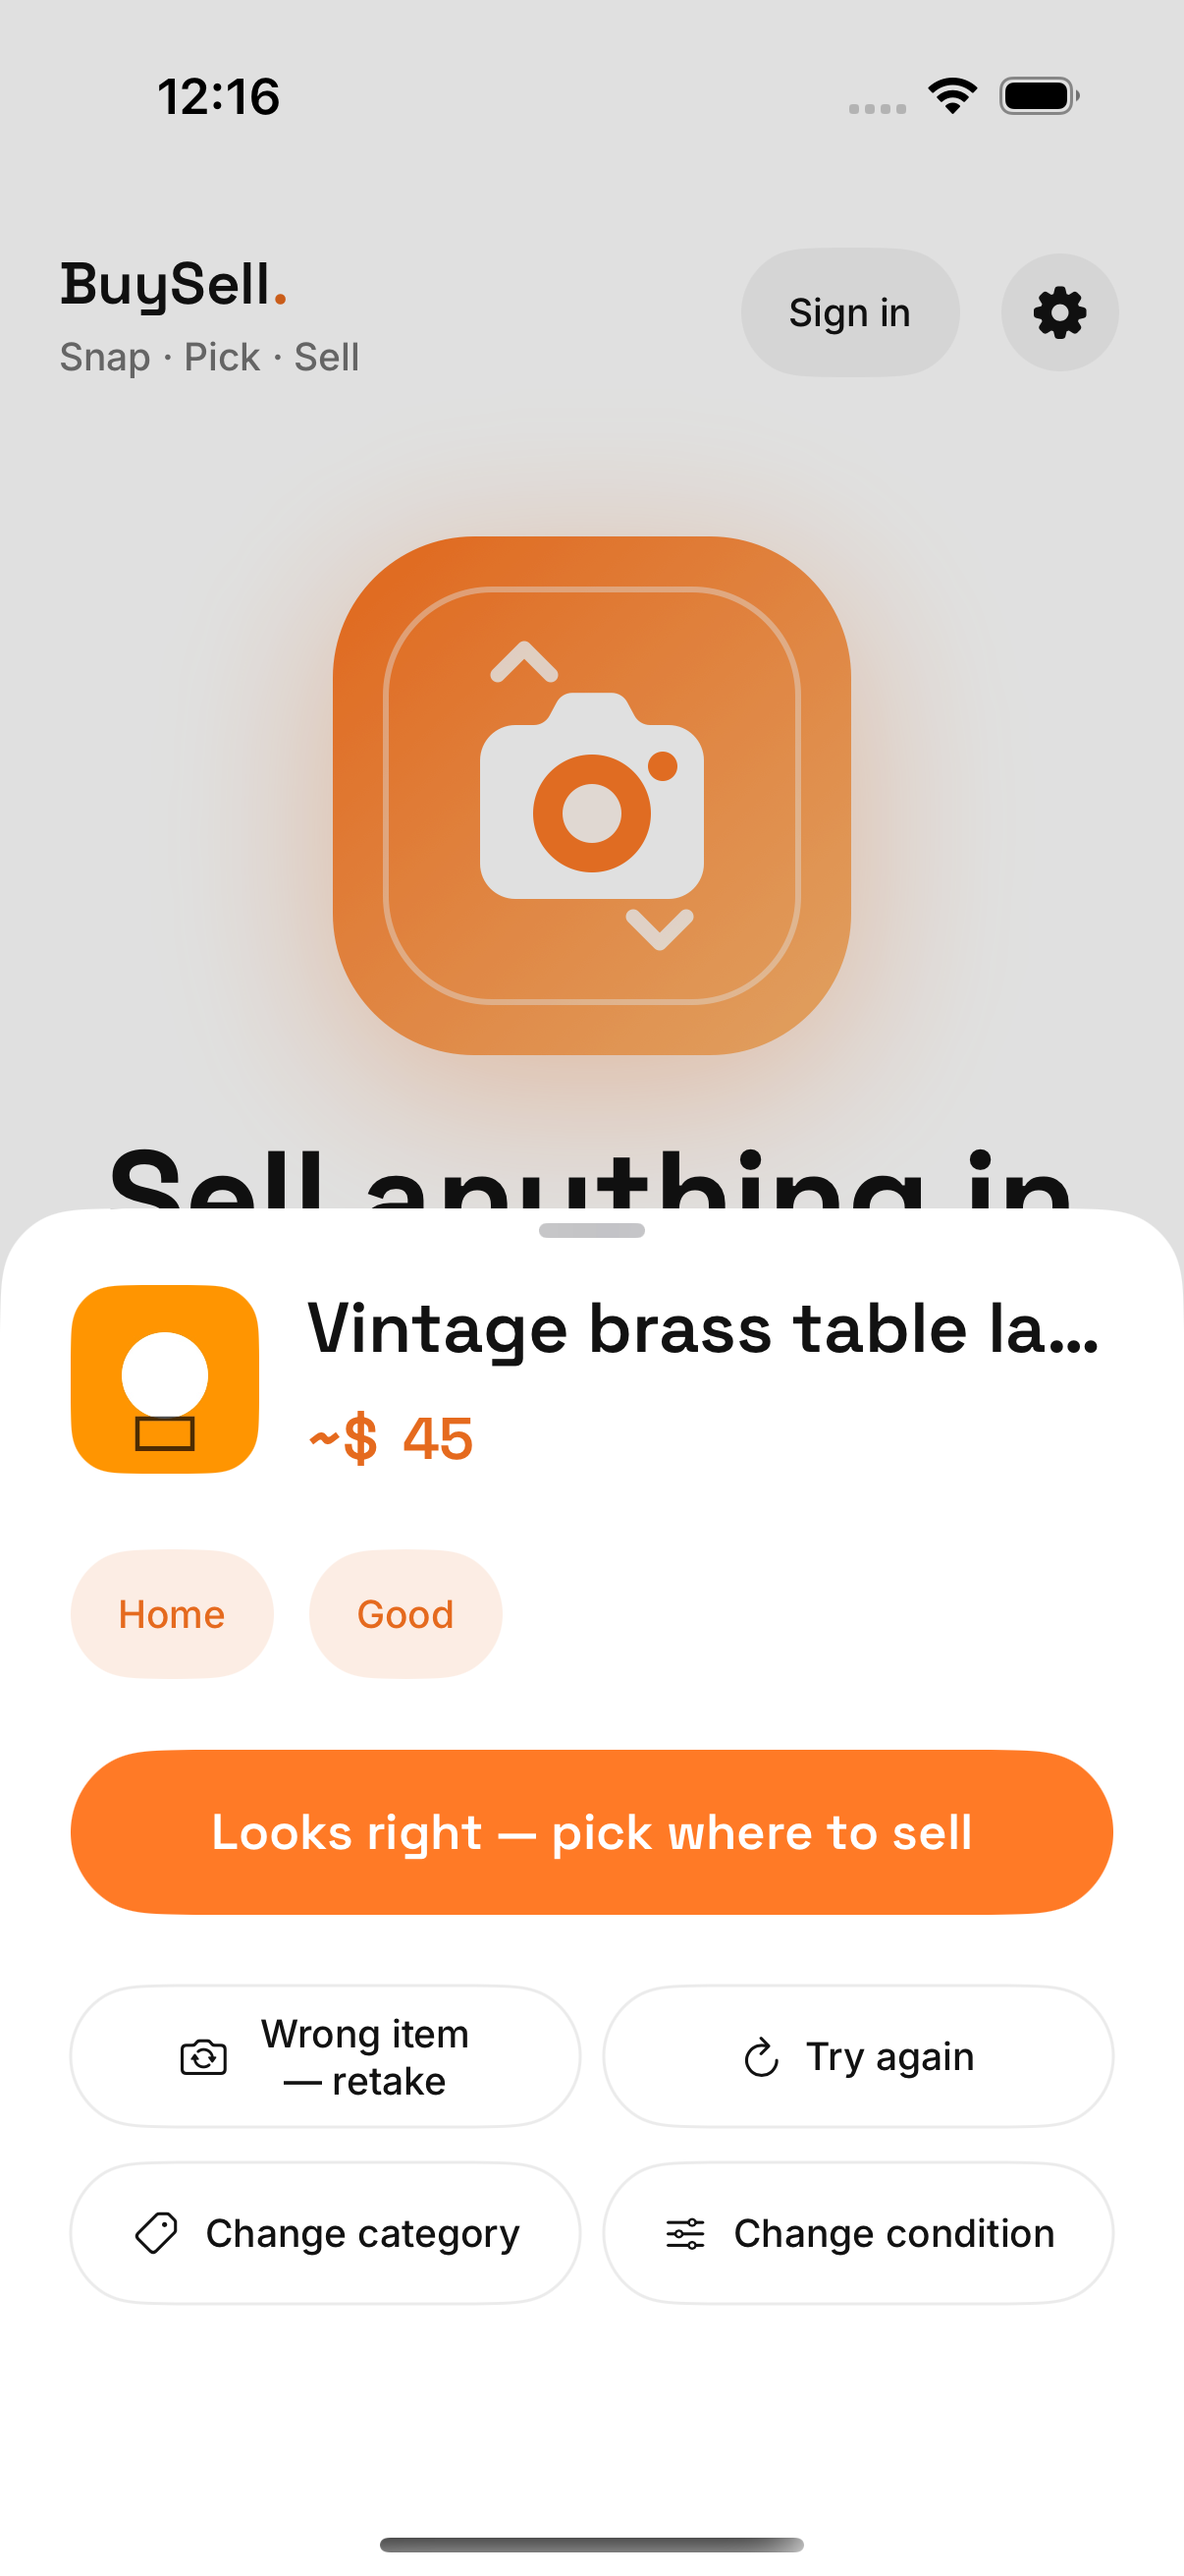
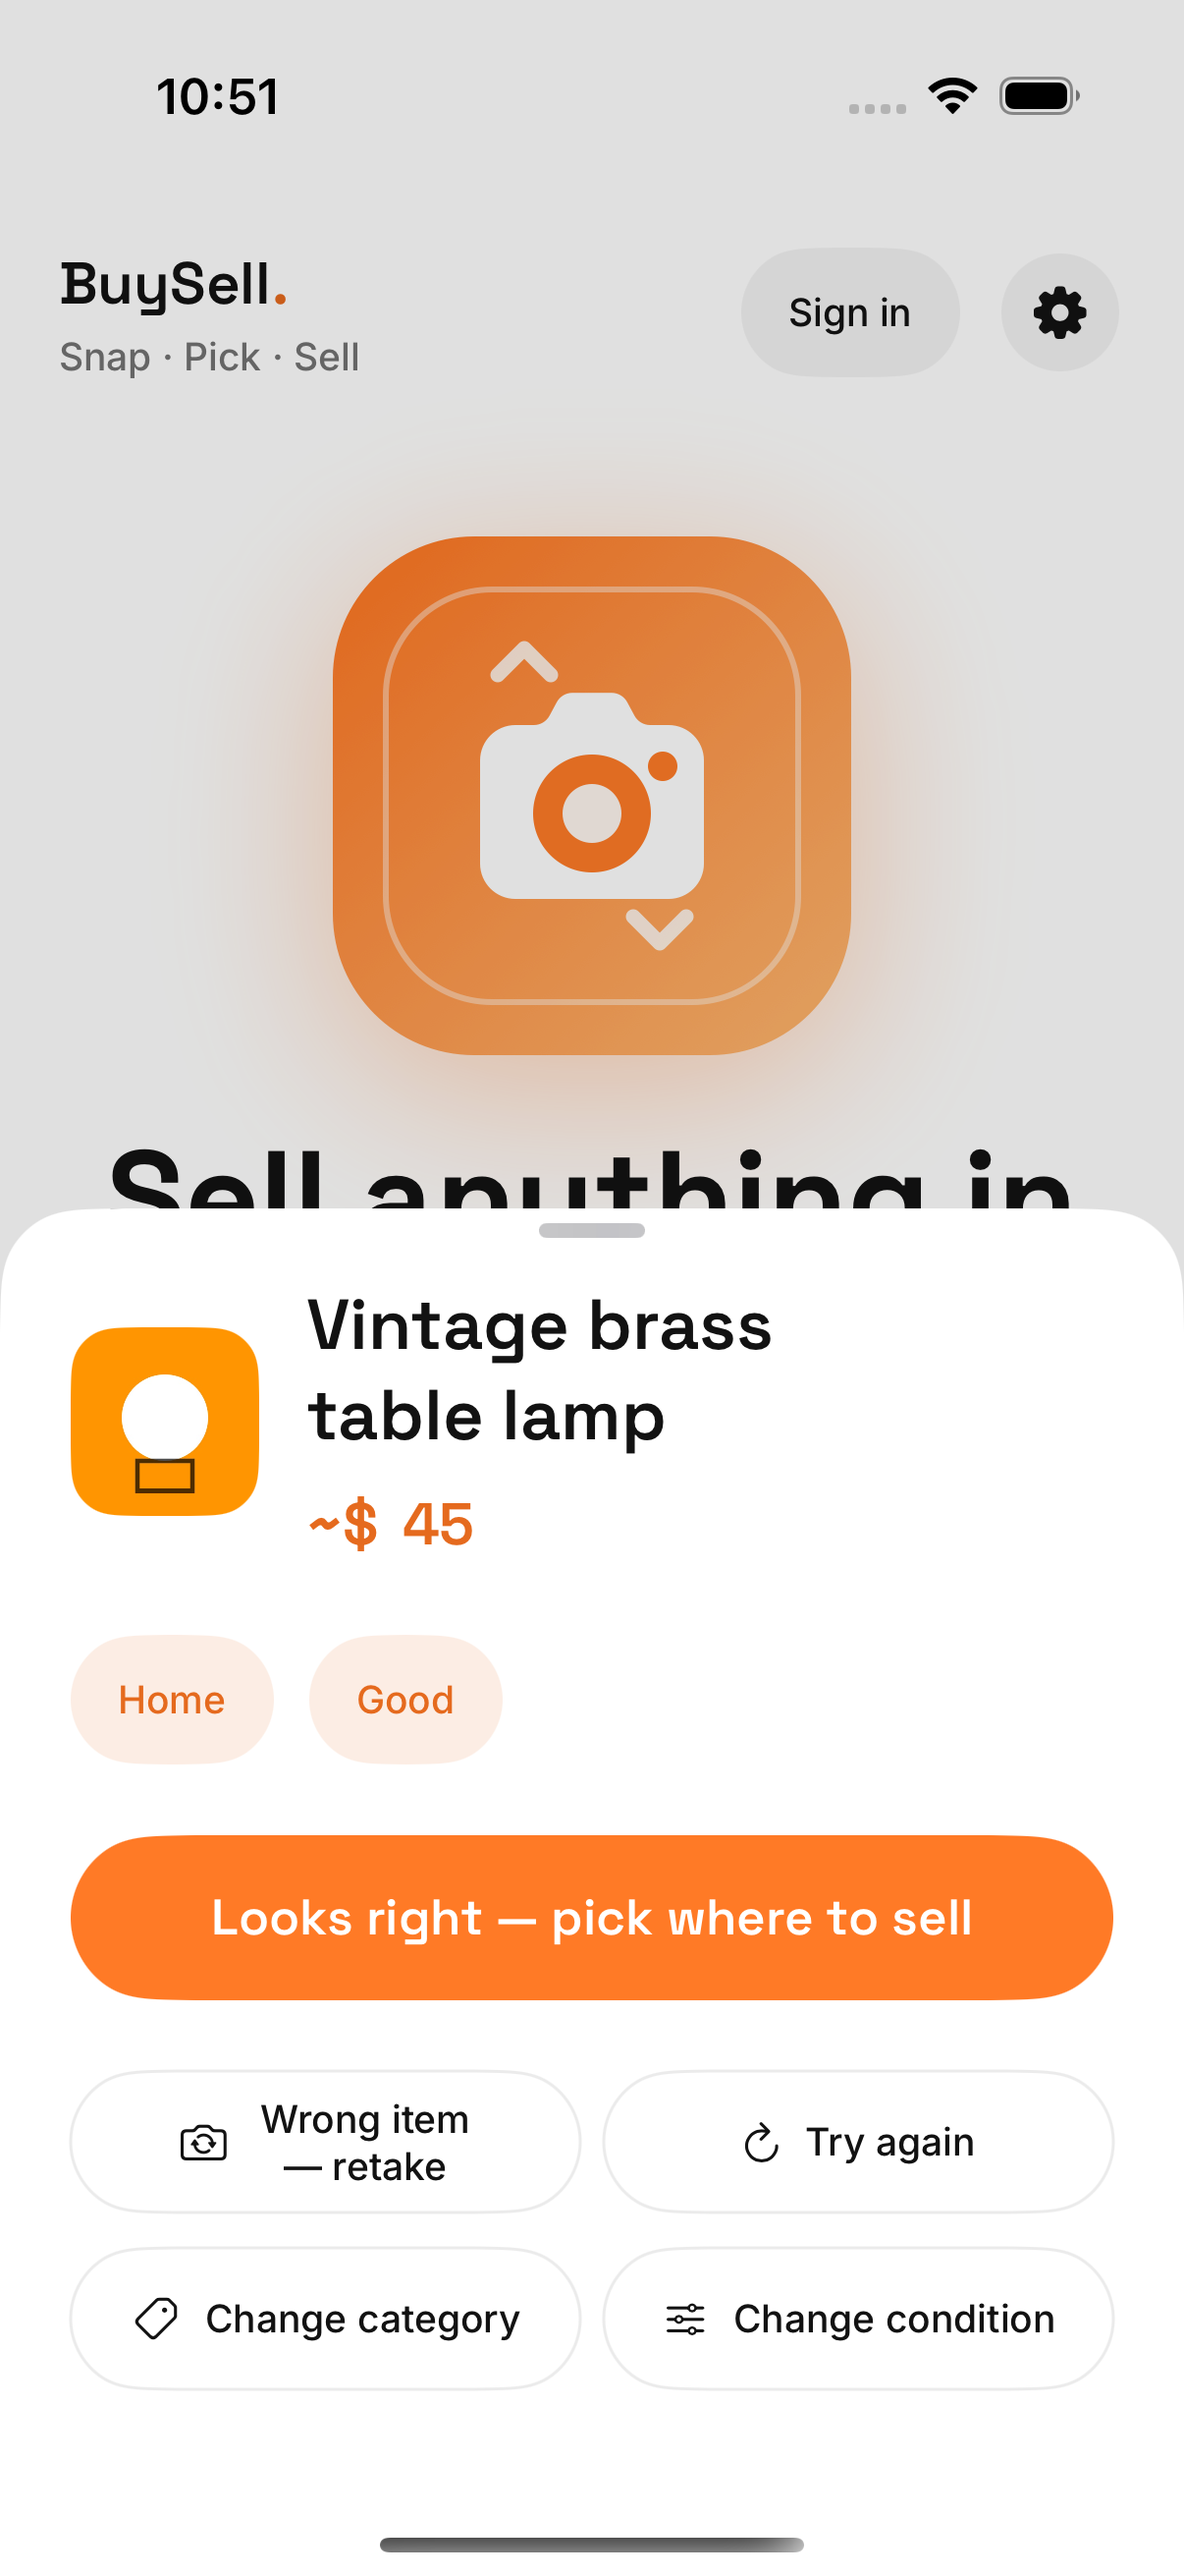
Polish result sheet item name display

diff --git a/BuySellAI/Features/SnapResult/SnapResultSheet.swift b/BuySellAI/Features/SnapResult/SnapResultSheet.swift
@@ -6,6 +6,7 @@ struct SnapResultSheet: View {
 
     @Environment(AppStore.self) private var appStore
     @State private var store: SnapResultStore
+    @State private var isEditingName = false
     @FocusState private var focusedField: Field?
 
     init(context: SnapResultContext) {
@@ -47,6 +48,7 @@ struct SnapResultSheet: View {
                     Spacer()
                     Button("Done".localized) {
                         store.commitEdits()
+                        isEditingName = false
                         focusedField = nil
                     }
                     .accessibilityLabel("Done".localized)
@@ -96,16 +98,7 @@ struct SnapResultSheet: View {
                 PhotoThumbnail(data: context.imageData, size: 64)
 
                 VStack(alignment: .leading, spacing: Spacing.xs) {
-                    TextField("Item name".localized, text: Binding(
-                        get: { store.nameText },
-                        set: { store.nameText = $0 }
-                    ))
-                        .brandFont(.titleLg)
-                        .foregroundStyle(Color.brand.foreground)
-                        .focused($focusedField, equals: .name)
-                        .submitLabel(.done)
-                        .onSubmit { store.commitEdits() }
-                        .accessibilityLabel("Item name".localized)
+                    itemNameControl
 
                     HStack(spacing: Spacing.xs) {
                         Text("~$")
@@ -123,6 +116,8 @@ struct SnapResultSheet: View {
                             .accessibilityLabel("Estimated price".localized)
                     }
                 }
+                .frame(maxWidth: .infinity, alignment: .leading)
+                .layoutPriority(1)
             }
             .accessibilitySortPriority(5)
 
@@ -173,6 +168,82 @@ struct SnapResultSheet: View {
             }
             .accessibilitySortPriority(2)
         }
+    }
+
+    @ViewBuilder
+    private var itemNameControl: some View {
+        if isEditingName {
+            TextField("Item name".localized, text: Binding(
+                get: { store.nameText },
+                set: { store.nameText = $0 }
+            ), axis: .vertical)
+                .brandFont(.titleLg)
+                .foregroundStyle(Color.brand.foreground)
+                .lineLimit(1...2)
+                .minimumScaleFactor(0.82)
+                .allowsTightening(true)
+                .frame(maxWidth: .infinity, alignment: .leading)
+                .focused($focusedField, equals: .name)
+                .submitLabel(.done)
+                .onSubmit {
+                    store.commitEdits()
+                    isEditingName = false
+                    focusedField = nil
+                }
+                .accessibilityLabel("Item name".localized)
+        } else {
+            Button {
+                isEditingName = true
+                focusedField = .name
+            } label: {
+                Text(readableItemName)
+                    .brandFont(.titleLg)
+                    .foregroundStyle(Color.brand.foreground)
+                    .lineLimit(2)
+                    .minimumScaleFactor(0.82)
+                    .allowsTightening(true)
+                    .frame(maxWidth: .infinity, alignment: .leading)
+                    .fixedSize(horizontal: false, vertical: true)
+            }
+                .buttonStyle(.plain)
+                .frame(maxWidth: .infinity, alignment: .leading)
+                .contentShape(Rectangle())
+                .accessibilityLabel("Item name".localized)
+                .accessibilityValue(store.nameText)
+                .accessibilityHint("Double-tap to edit the item name".localized)
+        }
+    }
+
+    private var readableItemName: String {
+        let fallback = "Item name".localized
+        let name = store.nameText.trimmingCharacters(in: .whitespacesAndNewlines)
+        guard name.isEmpty == false else { return fallback }
+        guard name.count > 20, name.contains("\n") == false else { return name }
+
+        let words = name.split(separator: " ").map(String.init)
+        guard words.count > 1 else { return name }
+
+        let bestSplit = (1..<words.count).min { lhs, rhs in
+            let lhsScore = splitBalanceScore(words, at: lhs)
+            let rhsScore = splitBalanceScore(words, at: rhs)
+            return lhsScore == rhsScore
+                ? lineLength(words, endIndex: lhs) < lineLength(words, endIndex: rhs)
+                : lhsScore < rhsScore
+        } ?? words.count - 1
+
+        return words[..<bestSplit].joined(separator: " ")
+            + "\n"
+            + words[bestSplit...].joined(separator: " ")
+    }
+
+    private func splitBalanceScore(_ words: [String], at index: Int) -> Int {
+        abs(lineLength(words, endIndex: index) - lineLength(words, startIndex: index))
+    }
+
+    private func lineLength(_ words: [String], startIndex: Int = 0, endIndex: Int? = nil) -> Int {
+        let endIndex = endIndex ?? words.count
+        guard startIndex < endIndex else { return 0 }
+        return words[startIndex..<endIndex].joined(separator: " ").count
     }
 
     private func errorView(message: String) -> some View {

diff --git a/BuySellAIUITests/BuySellAIUITests.swift b/BuySellAIUITests/BuySellAIUITests.swift
@@ -481,7 +481,14 @@ final class BuySellAIUITests: XCTestCase {
 
         app.buttons["Take photo"].tap()
         XCTAssertTrue(app.descendants(matching: .any)["Item photo"].waitForExistence(timeout: 5))
+        let itemName = app.buttons["Item name"]
+        XCTAssertTrue(itemName.waitForExistence(timeout: 5))
+        XCTAssertEqual(itemName.value as? String, "Vintage brass table lamp")
+        itemName.tap()
         XCTAssertTrue(app.textFields["Item name"].waitForExistence(timeout: 5))
+        if app.toolbars.buttons["Done"].waitForExistence(timeout: 2) {
+            app.toolbars.buttons["Done"].tap()
+        }
         XCTAssertTrue(app.textFields["Estimated price"].exists)
         XCTAssertTrue(app.buttons["Category, Home"].exists)
         XCTAssertTrue(app.buttons["Condition, Good"].exists)

diff --git a/M10_APP_STORE_METADATA.md b/M10_APP_STORE_METADATA.md
@@ -45,7 +45,7 @@ Every required field below must be concrete before `Scripts/verify_m10_app_store
 | Files | `AppStoreAssets/Screenshots/iPhone-16-Pro/01-home.png`, `02-result.png`, `03-marketplaces.png`, `04-listing.png` |
[1 lines of base64/hex data omitted]
 | Result bundle | `/tmp/buysell-submit-readiness-full.xcresult` |
-| Result | Passed as part of the retained full simulator suite `/tmp/buysell-submit-readiness-full.xcresult` with 316 tests and 0 failures on 2026-07-16; standalone screenshot bundle `/tmp/buysell-m10-screenshots.xcresult` is also retained. |
+| Result | Passed as part of the retained full simulator suite `/tmp/buysell-submit-readiness-full.xcresult` with 336 tests and 0 failures on 2026-07-16; standalone screenshot bundle `/tmp/buysell-m10-screenshots.xcresult` is also retained. |
 
 ## App Privacy Answers
 
